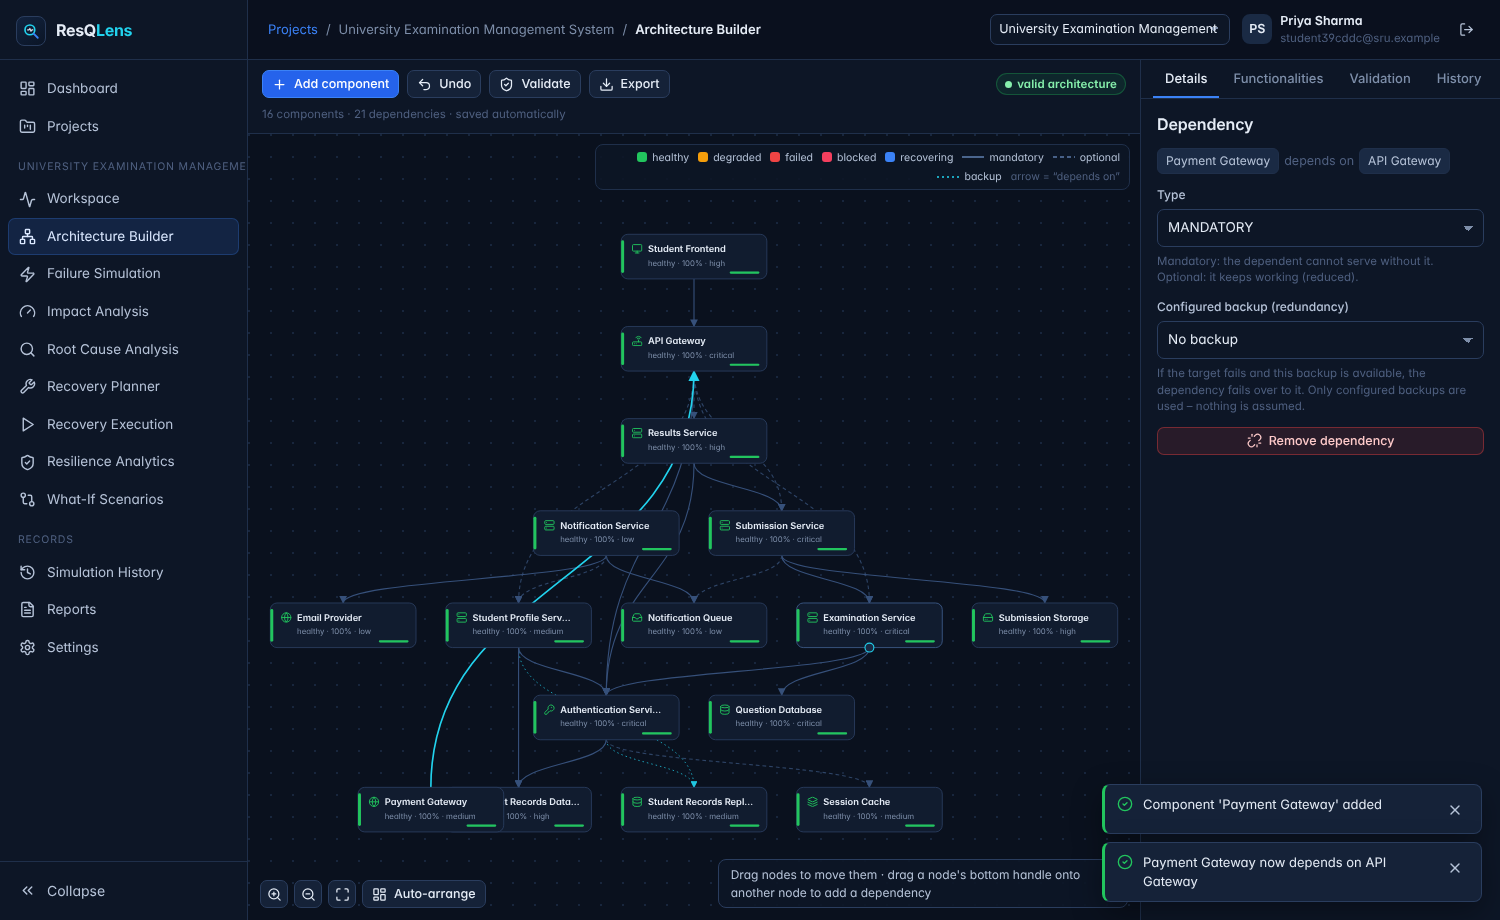
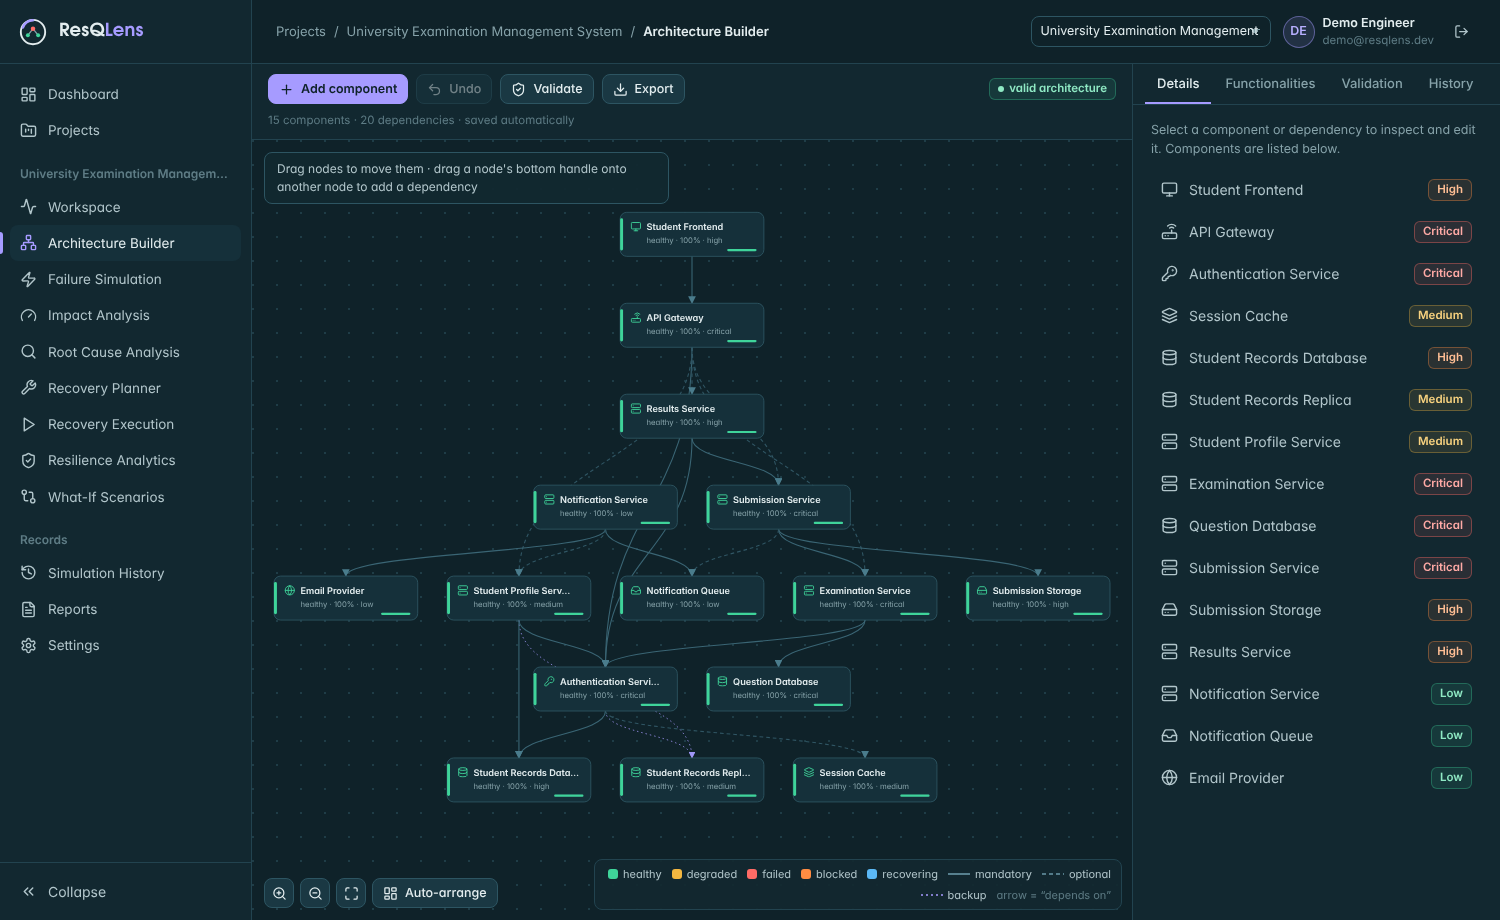
Refresh screenshots and docs for the new design and live deployment
- Replace all docs/screenshots with the Harbour & Lens design and add
  sign-in.png and an updated what-if.png
- README: live demo link, screenshot gallery, visual design notes and a
  sample data section
- DEPLOYMENT.md: current Render + TiDB Cloud Starter setup (permanent
  MySQL-compatible database) and its environment variables (no values)
- add_sample_projects.py: target another server with RESQLENS_API

diff --git a/tools/add_sample_projects.py b/tools/add_sample_projects.py
@@ -1,6 +1,6 @@
 """Add four sample architectures to ResQLens and run two failure simulations.
 
-Uses the running API (http://127.0.0.1:8000) as the demo account, exactly as the
+Uses the running API (http://127.0.0.1:8000, or the URL in RESQLENS_API) as the demo account, exactly as the
 web app would. Safe to re-run: projects that already exist are skipped, and a
 simulation is only run if its project has none yet.
 
@@ -10,12 +10,13 @@ Writes a summary to logs/sample_data_report.txt.
 from __future__ import annotations
 
 import json
+import os
 import sys
 import urllib.error
 import urllib.request
 from pathlib import Path
 
-API = "http://127.0.0.1:8000"
+API = os.environ.get("RESQLENS_API", "http://127.0.0.1:8000").rstrip("/")  # e.g. the live Render URL
 DEMO_EMAIL = "demo@resqlens.dev"
 DEMO_PASSWORD = "Demo@2026"  # public demo account created by app.seed, not a real secret
 

diff --git a/README.md b/README.md
@@ -4,6 +4,10 @@ ResQLens is a full-stack web application for modelling a software system's archi
 
 > **Simulation only.** ResQLens never connects to or runs commands on real infrastructure. Every failure, status, score and recovery time is computed by documented, rule-based algorithms over *your modelled architecture*. No randomness, no machine learning and no AI-generated reasoning are used.
 
+**Live demo:** https://resqlens-2hym.onrender.com (sign in with `demo@resqlens.dev` / `Demo@2026`). It runs on Render's free plan, so the first visit after 15 idle minutes takes about 50 seconds while the server wakes up.
+
+![ResQLens sign-in screen](docs/screenshots/sign-in.png)
+
 ![Architecture](docs/diagrams/architecture.png)
 
 ---
@@ -95,7 +99,10 @@ npm run typecheck    # TypeScript type-check
 - Backup: `database\backup.bat`.
 
 ### Deployment
-Docker image, Docker Compose (app + MySQL) and free-tier hosting options: **[deployment/DEPLOYMENT.md](deployment/DEPLOYMENT.md)**.
+The live demo runs on **Render** (Docker web service) with a free **TiDB Cloud Starter** MySQL-compatible database, so data is kept across restarts. Setup steps, the Docker image, Docker Compose (app + MySQL) and other hosting options: **[deployment/DEPLOYMENT.md](deployment/DEPLOYMENT.md)**.
+
+### Sample data
+`add_projects_and_commit.bat` (Windows) or `python tools/add_sample_projects.py` adds four more sample architectures through the API: an e-commerce checkout platform, a hospital patient records system, a food delivery app and an online banking portal. It also runs two example simulations. All values are simulated, and running it again doesn't create duplicates.
 
 ## Demo walkthrough
 The seeded **University Examination Management System** has 15 components, 20 dependencies (13 mandatory, 7 optional, and 2 protected by a configured read replica), 6 functionalities (3 critical) and 4 predefined scenarios.
@@ -201,9 +208,23 @@ There are **37 tests**:
 ## Screenshots
 | | |
 |---|---|
-| ![Dashboard](docs/screenshots/dashboard.png) | ![Architecture builder](docs/screenshots/architecture-builder.png) |
-| ![Simulation running](docs/screenshots/simulation-running.png) | ![Impact analysis](docs/screenshots/impact-analysis.png) |
-| ![Root cause](docs/screenshots/root-cause.png) | ![Recovery planner](docs/screenshots/recovery-planner.png) |
-| ![Recovery execution](docs/screenshots/recovery-execution.png) | ![Resilience](docs/screenshots/resilience.png) |
+| ![Sign in](docs/screenshots/sign-in.png) | ![Dashboard](docs/screenshots/dashboard.png) |
+| ![Architecture builder](docs/screenshots/architecture-builder.png) | ![Simulation running](docs/screenshots/simulation-running.png) |
+| ![Impact analysis](docs/screenshots/impact-analysis.png) | ![Root cause](docs/screenshots/root-cause.png) |
+| ![Recovery planner](docs/screenshots/recovery-planner.png) | ![Recovery execution](docs/screenshots/recovery-execution.png) |
+| ![Resilience](docs/screenshots/resilience.png) | ![What-if comparison](docs/screenshots/what-if.png) |
+
+## Visual design – "Harbour & Lens"
+The interface uses a dark petrol-teal base, a lens-violet brand accent and five status colours that never overlap with the accent. Every text colour meets WCAG AA contrast on its background.
+
+| Role | Colour |
+|---|---|
+| Background · panels | `#0F2229` · `#15303A` · `#1A3843` |
+| Text · secondary · muted | `#E3EDEF` · `#B2C6CB` · `#86A2A9` |
+| Brand accent (buttons, active navigation, recovery path) | `#A69BFF` |
+| Healthy · Degraded · Failed · Blocked · Recovering | `#3FD49A` · `#F4B740` · `#FF6B66` · `#FF8C42` · `#5BB8F5` |
+| Chart series | `#A69BFF` · `#5BB8F5` · `#E0C38C` · `#E58FB8` |
+
+Typography: **TeX Gyre Adventor** (GUST Font License) for headings, numbers and the logo, and **Inter** (SIL OFL) for interface text. Both are bundled as WOFF files in `frontend/src/fonts/` with their licences, so there are no external font requests. The sign-in page's animated lens, which shows a failure spreading through a small dependency graph and then recovering, is the one decorative motion, and it switches off when the user prefers reduced motion.
 
 A sample generated PDF report is in [`docs/sample-report.pdf`](docs/sample-report.pdf).

diff --git a/deployment/DEPLOYMENT.md b/deployment/DEPLOYMENT.md
@@ -32,7 +32,28 @@ MySQL is only reachable from the app container, and its data lives in the `mysql
 | MySQL | **Aiven for MySQL** (free plan) | Single node, 1 vCPU, 1 GB RAM, **1 GB storage**. No credit card. TLS is required (`DB_SSL=1`, optionally `DB_SSL_CA` = the downloaded `ca.pem`). |
 | MySQL (alternative) | **TiDB Cloud Starter** | MySQL-compatible serverless. Each of up to five instances gets 5 GiB row storage and 50M Request Units per month for free. TLS is required. |
 
-Steps (Render + Aiven):
+### Current live deployment: Render + TiDB Cloud Starter
+The public demo at **https://resqlens-2hym.onrender.com** uses:
+- **Render** free web service, runtime Docker, root `Dockerfile` (Root Directory empty, Dockerfile Path `./Dockerfile`, build context `.`), auto-deploy on every push to `main`.
+- **TiDB Cloud Starter** (AWS Oregon, us-west-2, $0 spending limit), so data survives restarts. TiDB's certificate is signed by a public CA, so `DB_SSL=1` works with the system CA bundle and no `DB_SSL_CA` file is needed.
+
+Render environment variables (set values in the Render dashboard; never commit them):
+
+| Variable | Value |
+|---|---|
+| `SECRET_KEY` | generated by Render ("Generated secret") |
+| `DB_ENGINE` | `mysql` |
+| `DB_HOST` / `DB_PORT` | from TiDB Cloud → Connect (port `4000`) |
+| `DB_USER` | from TiDB Cloud → Connect (looks like `xxxx.root`) |
+| `DB_PASSWORD` | generated in TiDB Cloud → Connect; pasted directly into Render |
+| `DB_NAME` | `resqlens_db` (created once in TiDB's SQL Editor: `CREATE DATABASE resqlens_db;`) |
+| `DB_SSL` | `1` |
+| `SEED_DEMO` | `1` (creates the public demo account and project if they're missing) |
+| `WEB_CONCURRENCY` | `1` (one worker suits the free instance) |
+
+The schema is created automatically on first start. To load the four extra sample architectures into the live site, run `RESQLENS_API=https://resqlens-2hym.onrender.com python tools/add_sample_projects.py`.
+
+Steps (Render + Aiven, alternative):
 1. Push the repository to GitHub (see the README section *GitHub*).
 2. Aiven: create a free MySQL service and note the host, port, user and password. Create the database `resqlens_db`, or use `defaultdb` and set `DB_NAME` to it.
 3. Render: New → Web Service → connect the repository. Runtime **Docker** (it uses the root `Dockerfile`). Health check path `/api/health`.
